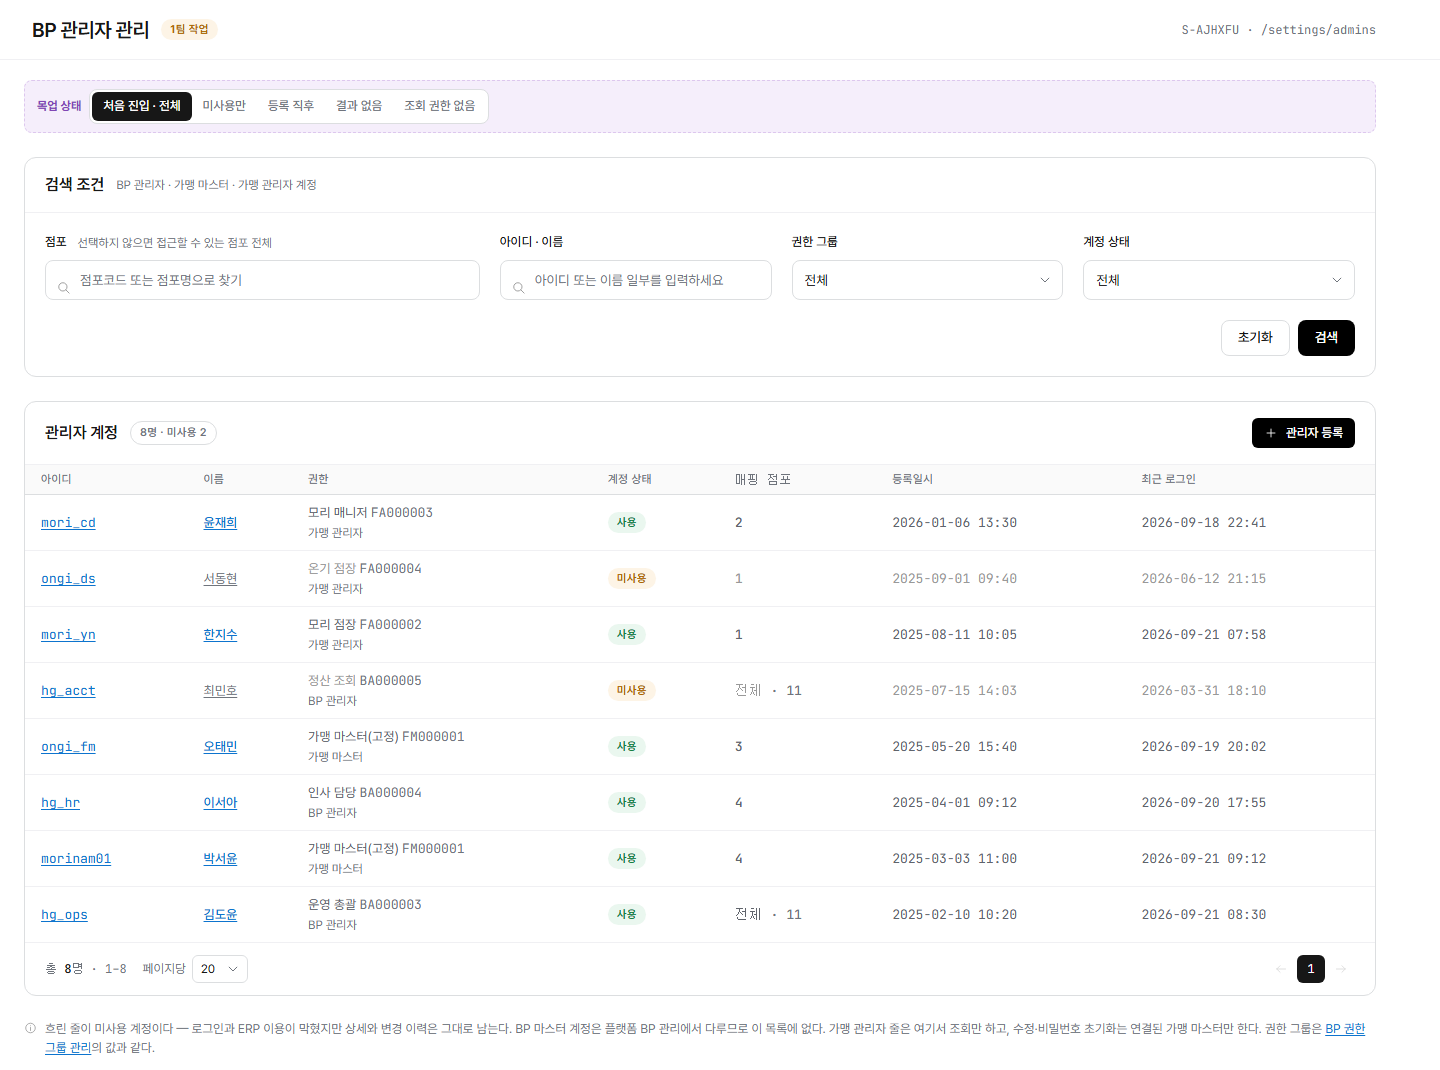
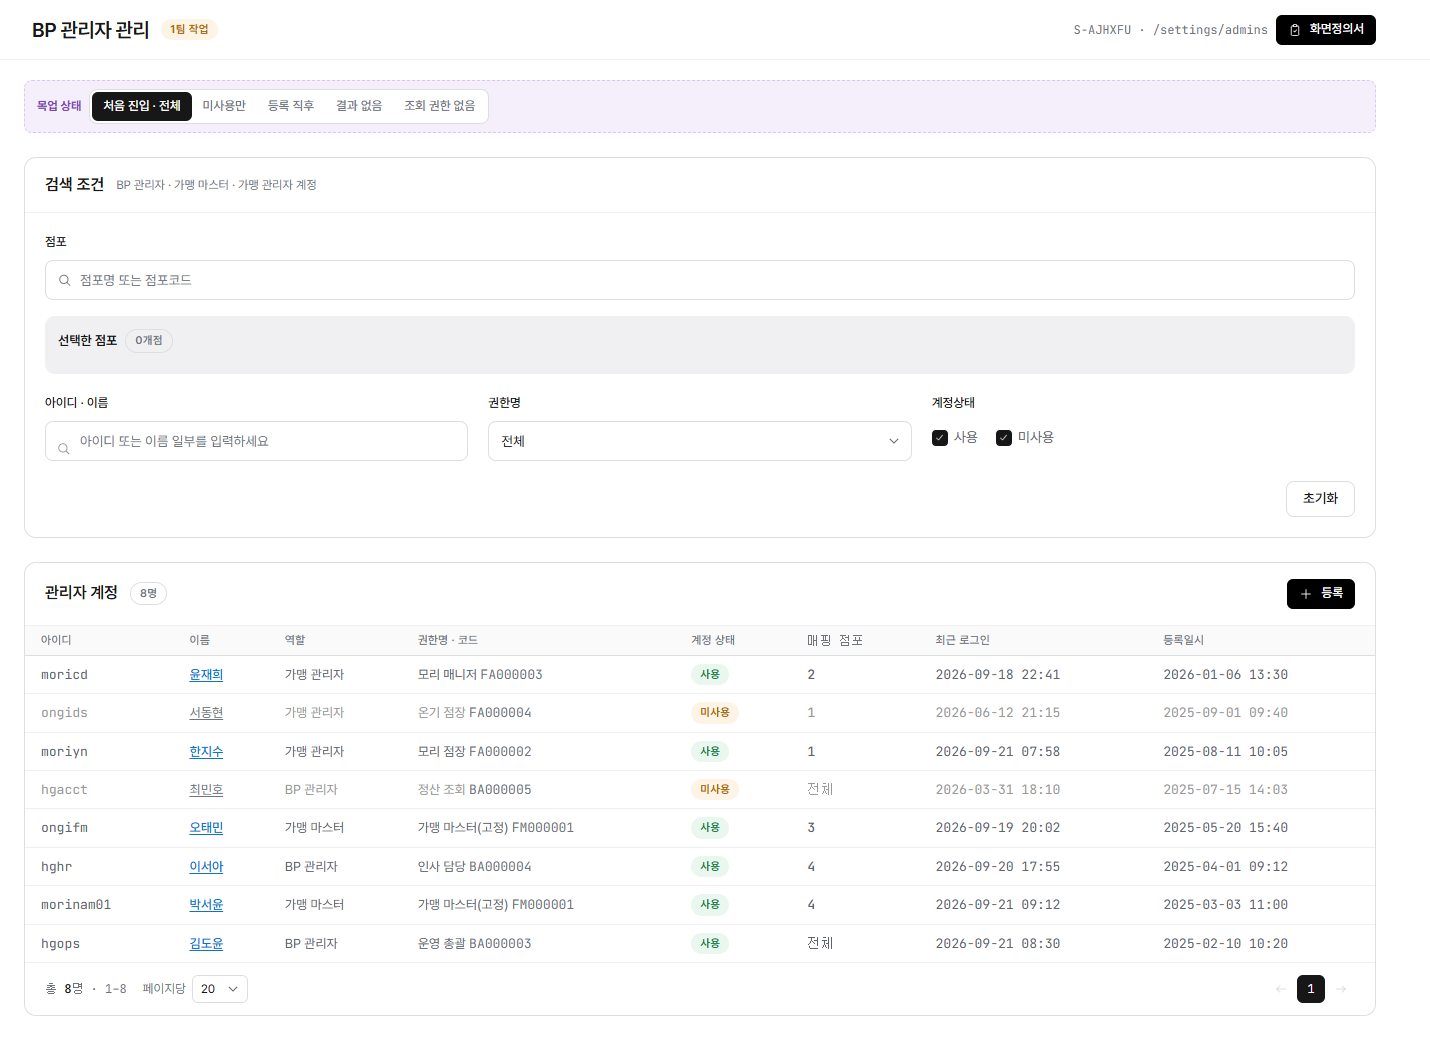
docs: BP 관리자 목록 화면정의서를 지금 데모로 다시 만듦
그림을 다시 찍고 항목 17개를 오늘 정한 검색 · 열 · 건수 · 미발송 기준대로
고쳤다. 목록 아래 안내문은 「보충 설명」 항목으로 정의서에만 남긴다.
데모의 미사용만 표도 열 순서 · 이름 링크를 맞췄다.

diff --git a/docs/mockup/config/config-admins.screen-def.html b/docs/mockup/config/config-admins.screen-def.html
@@ -49,23 +49,23 @@
   "screenPath": "BP 환경설정 > BP 관리자 관리 > 목록",
   "purpose": "# 화면 목적 및 기능 — BP 관리자·가맹 마스터·가맹 관리자 계정을 역할별 조회 범위 안에서 검색·조회하고, 상세로 이동하거나 신규 등록으로 이어지는 진입 화면(BP 마스터·플랫폼 관리자 계정은 다루지 않음)",
   "items": [
-    { "x": 260, "y": 280, "title": "점포 필터", "desc": "정의: 점포코드 또는 점포명으로 검색해 여러 점포를 골라 칩으로 쌓는 다중 선택 필터\n선택하지 않으면 접근 가능한 점포 전체가 대상" },
-    { "x": 635, "y": 280, "title": "아이디 · 이름", "desc": "정의: 아이디와 이름을 한꺼번에 검색하는 입력란(둘 중 하나에 입력한 글자가 포함되면 결과에 나옴)" },
-    { "x": 927, "y": 280, "title": "권한 그룹", "desc": "정의: 조회 범위 안의 권한 그룹으로 좁히는 드롭다운\nBP 관리자/가맹 마스터/가맹 관리자 그룹을 optgroup으로 구분해 표시" },
-    { "x": 1218, "y": 280, "title": "계정 상태", "desc": "정의: 전체 · 사용 · 미사용 중 하나를 고르는 드롭다운(일치 조건)" },
-    { "x": 1255, "y": 337, "title": "초기화", "desc": "정의: 검색 조건을 기본값(처음 진입 상태)으로 되돌림" },
-    { "x": 1326, "y": 337, "title": "검색", "desc": "정의: 조건대로(모두 AND) 목록을 다시 불러옴" },
-    { "x": 173, "y": 432, "title": "관리자 계정 건수", "desc": "정의: 현재 검색 조건에 해당하는 계정 총 인원수(미사용 인원 포함 표시)" },
-    { "x": 1303, "y": 432, "title": "관리자 등록", "desc": "정의: 관리자 등록 화면으로 이동하는 버튼\n등록 권한이 있는 BP 마스터·BP 관리자·가맹 마스터·플랫폼 사용자에게만 보임 — 가맹 관리자는 어느 역할도 등록하지 않음" },
-    { "x": 68, "y": 522, "title": "아이디", "desc": "정의: 계정 아이디, 누르면 상세로 이동\n목록에는 수정 링크가 없고 수정은 상세를 거쳐서만 가능" },
-    { "x": 219, "y": 522, "title": "이름", "desc": "정의: 계정 이름, 누르면 상세로 이동" },
-    { "x": 370, "y": 522, "title": "권한", "desc": "정의: 권한 그룹명·코드와 역할(BP 관리자/가맹 마스터/가맹 관리자)을 함께 표시" },
-    { "x": 626, "y": 522, "title": "계정 상태", "desc": "정의: 사용 · 미사용 배지 표시, 미사용 줄은 흐리게 표시" },
-    { "x": 778, "y": 522, "title": "매핑 점포", "desc": "정의: 이 계정이 맡은 점포 수, BP 관리자가 전체 점포를 맡으면 \"전체 · N\"으로 표시" },
-    { "x": 954, "y": 522, "title": "등록일시", "desc": "정의: 계정 등록 일시, 기본 정렬 기준(최신순)" },
-    { "x": 1204, "y": 522, "title": "최근 로그인", "desc": "정의: 가장 최근 로그인 일시, 기록이 없으면 \"-\"" },
-    { "x": 163, "y": 968, "title": "페이지네이션 · 페이지당 표시", "desc": "정의: 전체 건수/현재 범위 표시, 페이지당 표시 개수 선택, 이전 · 다음 이동" },
-    { "x": 52, "y": 1028, "title": "하단 안내 문구", "desc": "정의: 흐린 줄(미사용 계정)은 로그인·ERP 이용만 막히고 상세·변경 이력은 그대로 남는다는 안내\nBP 마스터 계정은 플랫폼 BP 관리에서 다루므로 이 목록에 없음\n가맹 관리자 줄은 조회만 되고 수정·비밀번호 초기화는 연결된 가맹 마스터만 가능\n권한 그룹은 BP 권한 그룹 관리 화면의 값과 같음(링크 제공)\n가맹 마스터·가맹 관리자에게는 본인 계정과 매핑 점포가 하나라도 겹치는 가맹 관리자 계정이 보임 — 본인 줄을 눌러 상세를 열고, 가맹 마스터는 본인 기본정보만 고치며 가맹 관리자 본인 계정은 조회만(2026-10-23)" }
+    { "x": 60, "y": 240, "title": "점포 필터", "desc": "정의: 점포코드 또는 점포명으로 검색해 여러 점포를 골라 칩으로 쌓는 다중 선택 필터\n고르는 즉시 목록을 다시 불러옴, 선택하지 않으면 접근 가능한 점포 전체가 대상" },
+    { "x": 60, "y": 402, "title": "아이디 · 이름", "desc": "정의: 아이디와 이름을 한꺼번에 검색하는 입력란(둘 중 하나에 입력한 글자가 포함되면 결과에 나옴)\nEnter 나 돋보기로 검색" },
+    { "x": 503, "y": 402, "title": "권한명", "desc": "정의: 조회 범위 안의 권한 그룹으로 좁히는 드롭다운, 선택지는 「이름 · 코드」를 역할로 묶지 않고 나열\n고르는 즉시 검색" },
+    { "x": 947, "y": 402, "title": "계정상태", "desc": "정의: 사용 · 미사용 체크박스(처음엔 둘 다 켬), 바꾸는 즉시 검색\n둘 다 끄면 「선택한 계정상태가 없어 표시할 관리자 계정이 없습니다.」" },
+    { "x": 1300, "y": 498, "title": "초기화", "desc": "정의: 검색 조건을 기본값(처음 진입 상태)으로 되돌림\n[검색] 버튼은 없다 — 조건은 고르거나 Enter 를 누르는 즉시 걸린다" },
+    { "x": 145, "y": 592, "title": "관리자 계정 건수", "desc": "정의: 현재 검색 조건에 해당하는 계정 총 인원수(미사용 수는 따로 보이지 않음)" },
+    { "x": 1300, "y": 593, "title": "관리자 등록", "desc": "정의: 관리자 등록 패널을 여는 버튼\n등록 권한이 있는 BP 마스터·BP 관리자·가맹 마스터·플랫폼 사용자에게만 보임 — 가맹 관리자는 어느 역할도 등록하지 않음" },
+    { "x": 56, "y": 640, "title": "아이디", "desc": "정의: 계정 아이디(링크 아님)" },
+    { "x": 205, "y": 640, "title": "이름", "desc": "정의: 계정 이름, 누르면 상세로 이동\n목록에는 수정 링크가 없고 수정은 상세를 거쳐서만 가능" },
+    { "x": 300, "y": 640, "title": "역할", "desc": "정의: BP 관리자 / 가맹 마스터 / 가맹 관리자" },
+    { "x": 433, "y": 640, "title": "권한명 · 코드", "desc": "정의: 권한 그룹 이름과 코드" },
+    { "x": 706, "y": 640, "title": "계정 상태", "desc": "정의: 사용 · 미사용 배지 표시, 미사용 줄은 흐리게 표시" },
+    { "x": 822, "y": 640, "title": "매핑 점포", "desc": "정의: 이 계정이 맡은 점포 수, 전체 점포를 맡으면 「전체」" },
+    { "x": 950, "y": 640, "title": "최근 로그인", "desc": "정의: 가장 최근 로그인 일시, 기록이 없으면 「-」\n초기 비밀번호 메일이 실패한 사용 계정은 「초기화 비밀번호 미발송」을 빨간 글자로 표시(미사용 계정은 표시 안 함)" },
+    { "x": 1178, "y": 640, "title": "등록일시", "desc": "정의: 계정 등록 일시, 기본 정렬 기준(최신순)" },
+    { "x": 60, "y": 989, "title": "페이지네이션 · 페이지당 표시", "desc": "정의: 전체 건수/현재 범위 표시, 페이지당 표시 개수(20 · 50 · 100) 선택, 이전 · 다음 이동" },
+    { "x": 40, "y": 1030, "title": "보충 설명(화면에 없음)", "desc": "정의: 화면 아래 안내문은 두지 않고 이 정의서에만 적는다\n흐린 줄(미사용 계정)은 로그인·ERP 이용만 막히고 상세·변경 이력은 그대로 남는다\nBP 마스터 계정은 플랫폼 BP 관리에서 다루므로 이 목록에 없다\n가맹 관리자 줄은 조회만 되고 수정·비밀번호 초기화는 연결된 가맹 마스터만 할 수 있다\n권한 그룹은 BP 권한 그룹 관리 화면의 값과 같다\n가맹 마스터·가맹 관리자에게는 본인 계정과 매핑 점포가 하나라도 겹치는 가맹 관리자 계정이 보이고, 가맹 마스터는 자기에게 연결된 가맹 관리자를 점포와 관계없이 본다\n빈 목록 문구는 「조건에 맞는 관리자 계정이 없습니다.」 하나" }
   ]
 }
 </script>

diff --git a/docs/mockup/config/admins.html b/docs/mockup/config/admins.html
@@ -284,33 +284,33 @@
                     <th scope="col">아이디</th>
                     <th scope="col">이름</th>
                     <th scope="col">역할</th>
-                    <th scope="col">권한 그룹</th>
+                    <th scope="col">권한명 · 코드</th>
                     <th scope="col">계정 상태</th>
                     <th scope="col" class="num">매핑 점포</th>
-                    <th scope="col">등록일시</th>
                     <th scope="col">최근 로그인</th>
+                    <th scope="col">등록일시</th>
                   </tr>
                 </thead>
                 <tbody>
                   <tr class="is-read">
-                    <td class="mono"><a class="tlink" href="admins-detail.html?state=yn">ongids</a></td>
+                    <td class="mono">ongids</td>
                     <td class="k"><a class="tlink" href="admins-detail.html?state=yn">서동현</a></td>
                     <td>가맹 관리자</td>
                     <td>온기 점장 <span class="mono subtle">FA000004</span></td>
                     <td><span class="badge badge--warn">미사용</span></td>
                     <td class="num">1</td>
-                    <td class="mono" style="white-space: nowrap">2025-09-01 09:40</td>
                     <td class="mono" style="white-space: nowrap">2026-06-12 21:15</td>
+                    <td class="mono" style="white-space: nowrap">2025-09-01 09:40</td>
                   </tr>
                   <tr class="is-read">
-                    <td class="mono"><a class="tlink" href="admins-detail.html?state=acct">hgacct</a></td>
+                    <td class="mono">hgacct</td>
                     <td class="k"><a class="tlink" href="admins-detail.html?state=acct">최민호</a></td>
                     <td>BP 관리자</td>
                     <td>정산 조회 <span class="mono subtle">BA000005</span></td>
                     <td><span class="badge badge--warn">미사용</span></td>
                     <td class="num" style="white-space: nowrap">전체</td>
-                    <td class="mono" style="white-space: nowrap">2025-07-15 14:03</td>
                     <td class="mono" style="white-space: nowrap">2026-03-31 18:10</td>
+                    <td class="mono" style="white-space: nowrap">2025-07-15 14:03</td>
                   </tr>
                 </tbody>
               </table>

diff --git a/okf/log.md b/okf/log.md
@@ -1,6 +1,7 @@
 # Bundle history
 
 ## 2026-10-29
+* **Update**: [BP 환경설정](/config.md) — BP 관리자 목록 화면정의서(그림 · 항목 17개)를 오늘 정한 목록 데모대로 다시 만들었다. 목록 아래 안내문은 그림에 없이 「보충 설명」 항목으로 남겼다(front piplup).
 * **Update**: [BP 환경설정](/config.md) — BP 관리자 목록: 「초기화 비밀번호 미발송」은 사용 계정에만 보인다(코드 수정, 상세와 맞춤) · 매핑 점포 「전체」 · 빈 목록 문구 하나 · 목록 아래 안내문은 데모에서 뺐다(화면정의서엔 남김, 2026-10-29 사용자 결정, front piplup).
 * **Update**: [BP 환경설정](/config.md) — BP 관리자 목록 열: 「권한명 · 코드」 열 이름 · 최근 로그인을 등록일시 앞으로 · 링크는 이름에만, 데모를 코드에 맞췄다(2026-10-29 사용자 결정, front piplup).
 * **Update**: [BP 환경설정](/config.md) — BP 관리자 목록 건수는 총건수만 보인다(데모의 「· 미사용 N」을 뺐다, 2026-10-29 사용자 결정, front piplup).
